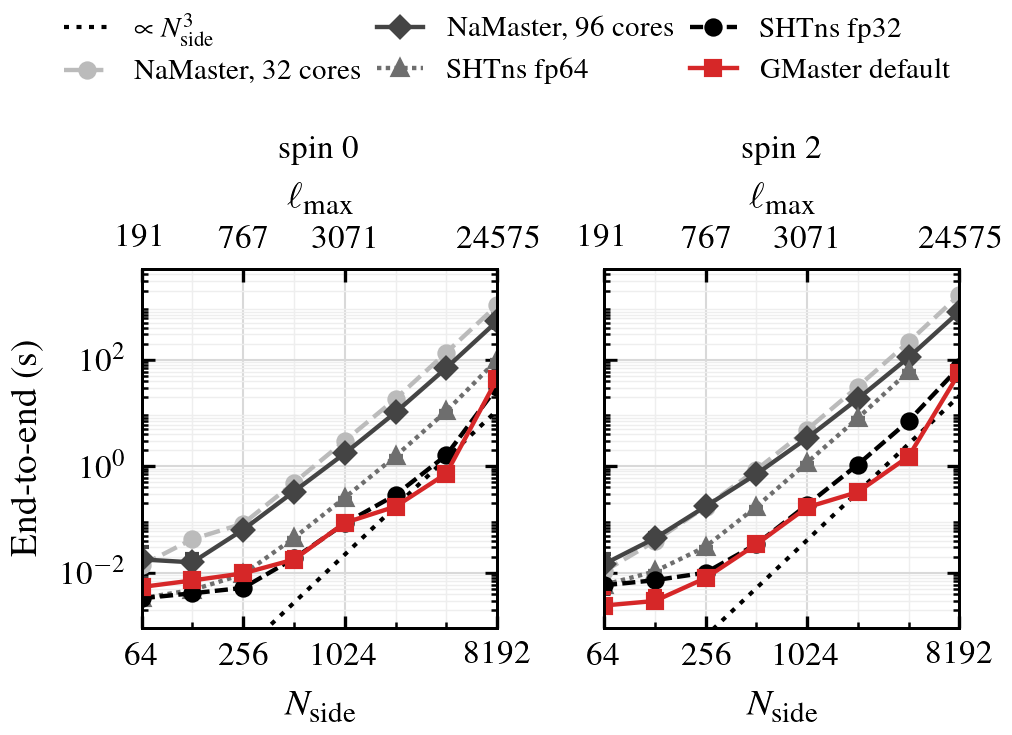
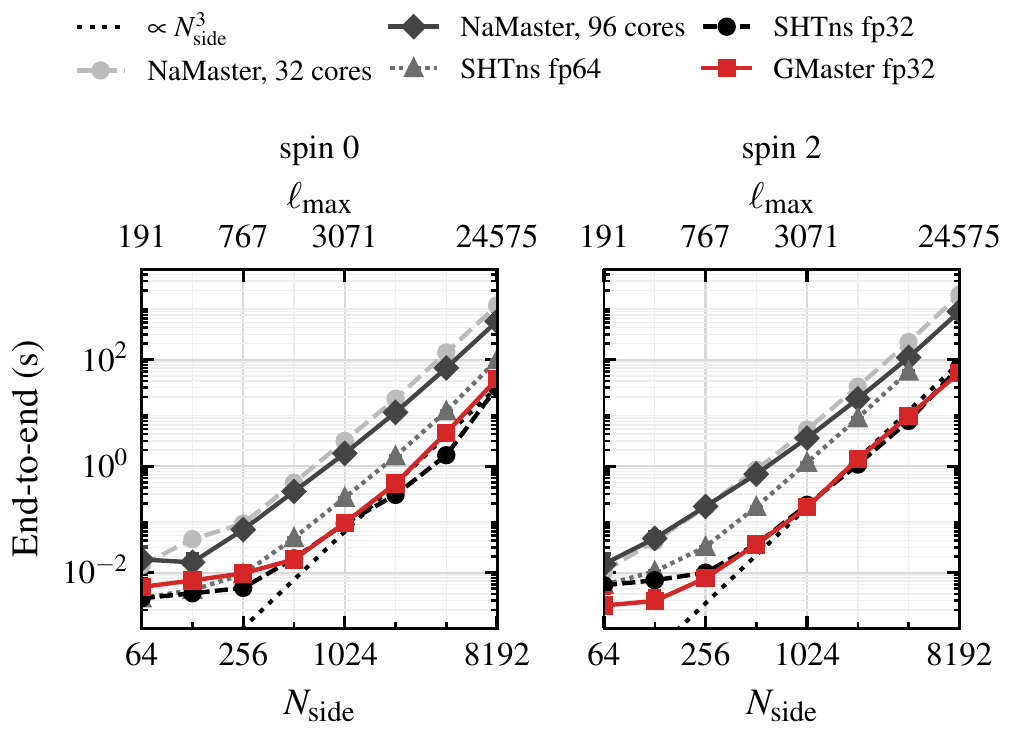
Attribute the ACT timings to the float32 Wigner-d march.
The letter no longer describes a divide-and-conquer latitudinal engine or its timings. The performance figure is the float32 march curve.

diff --git a/paper/gmaster_paper/main.tex b/paper/gmaster_paper/main.tex
@@ -27,7 +27,7 @@ $^{3}$Cavendish Astrophysics, University of Cambridge, Madingley Road, Cambridge
 \maketitle
 
 \begin{abstract}
-High-resolution analysis of maps on the sphere is limited by the computational cost of spherical harmonic transforms (SHTs). We introduce a difference-form Wigner-$d$/Jacobi recurrence that suppresses the amplification of floating-point error and makes accurate single-precision transforms practical on a GPU. The functions are generated on the fly, so the full latitudinal basis is never stored. The method is implemented in \texttt{GMaster}\,\href{https://github.com/licongxu/GMaster}{\faGithub}, with CUDA kernels integrated with JAX. On one GPU, float32 \texttt{map2alm} at $N_{\mathrm{side}}=1024$--$2048$ is $7.3$--$8.5\times$ faster for spin~0 and $6.7$--$9.0\times$ faster for spin~2 than \texttt{ducc0} on 96 CPU cores, and $2.2$--$4.7\times$ faster than float64 \texttt{SHTns} on the HEALPix grid for spin-0 \texttt{map2alm} over $N_{\mathrm{side}}=512$--$8192$. The shipped default uses that march outside a band-limit window and a divide-and-conquer latitudinal engine inside it. On the ACT DR6 maps the default route is $58.6\times$ and $56.3\times$ faster than 96-core \texttt{NaMaster} at $N_{\mathrm{side}}=2048$ (spin~0 and spin~2) and $96.5\times$ and $72.5\times$ faster at $N_{\mathrm{side}}=4096$, with TT and EE bandpowers agreeing to $1.5\times10^{-5}$ at $N_{\mathrm{side}}=2048$ and $1.7\times10^{-4}$ at $N_{\mathrm{side}}=4096$. The float32 march evaluates the curved-sky CMB lensing quadratic estimator. At $\ell_{\max}=2000$ and $4000$ the seven estimators take $0.103\,\mathrm{s}$ and $0.594\,\mathrm{s}$, $61\times$ and $41\times$ faster than \texttt{falafel} on its CAR grid and $96.5\times$ and $64\times$ faster than \texttt{falafel} on HEALPix, agreeing with the HEALPix reconstruction to $2.8\times10^{-5}$ and $7.0\times10^{-5}$.
+High-resolution analysis of maps on the sphere is limited by the computational cost of spherical harmonic transforms (SHTs). We introduce a difference-form Wigner-$d$/Jacobi recurrence that suppresses the amplification of floating-point error and makes accurate single-precision transforms practical on a GPU. The functions are generated on the fly, so the full latitudinal basis is never stored. The method is implemented in \texttt{GMaster}\,\href{https://github.com/licongxu/GMaster}{\faGithub}, with CUDA kernels integrated with JAX. On one GPU, float32 \texttt{map2alm} at $N_{\mathrm{side}}=1024$--$2048$ is $7.3$--$8.5\times$ faster for spin~0 and $6.7$--$9.0\times$ faster for spin~2 than \texttt{ducc0} on 96 CPU cores, and $2.2$--$4.7\times$ faster than float64 \texttt{SHTns} on the HEALPix grid for spin-0 \texttt{map2alm} over $N_{\mathrm{side}}=512$--$8192$. On the ACT DR6 maps the float32 difference-form march carries the masked maps to decoupled bandpowers $12$--$22\times$ faster than 96-core \texttt{NaMaster} for $N_{\mathrm{side}}=512$--$8192$, with the bandpowers agreeing to $5.7\times10^{-5}$ in TT and $3.6\times10^{-4}$ in EE at $N_{\mathrm{side}}=4096$. The same march evaluates the curved-sky CMB lensing quadratic estimator. At $\ell_{\max}=2000$ and $4000$ the seven estimators take $0.103\,\mathrm{s}$ and $0.594\,\mathrm{s}$, $61\times$ and $41\times$ faster than \texttt{falafel} on its CAR grid and $96.5\times$ and $64\times$ faster than \texttt{falafel} on HEALPix, agreeing with the HEALPix reconstruction to $2.8\times10^{-5}$ and $7.0\times10^{-5}$.
 \end{abstract}
 
 \begin{keywords}
@@ -309,15 +309,15 @@ We now demonstrate the use of SHTs with GMaster in cosmological analysis workflo
 \begin{figure}
 \centering
 \includegraphics[width=\columnwidth]{figures/fig_act_perf.pdf}
-\caption{Wall time of the complete power-spectrum stage, from the masked maps of Figure~\ref{fig:act_tqu} to binned decoupled bandpowers, on the masked ACT DR6 maps. \texttt{GMaster} (red) is the shipped default latitudinal engine: divide-and-conquer at $N_{\mathrm{side}}=2048$ and $4096$, and the float32 difference-form Wigner-$d$ march at the other resolutions. \texttt{NaMaster} is black and grey. \texttt{SHTns} has no estimator of its own: its curves add the \texttt{SHTns} analysis of the masked maps ($n_{\mathrm{iter}}=3$, HEALPix, float64 or float32 throughout) to the \texttt{GMaster} mask transform, mode-coupling matrix and decoupling. \texttt{SHTns} fp64 at spin~2 and $N_{\mathrm{side}}=8192$ does not fit in GPU memory. The upper axis is $\ell_{\max}=3N_{\mathrm{side}}-1$. The dotted guide is $\propto N_{\mathrm{side}}^{3}$, anchored on GMaster at $N_{\mathrm{side}}=2048$.}
+\caption{Wall time of the complete power-spectrum stage, from the masked maps of Figure~\ref{fig:act_tqu} to binned decoupled bandpowers, on the masked ACT DR6 maps. \texttt{GMaster} uses its float32 difference-form Wigner-$d$ march on one GPU (red); \texttt{NaMaster} is black and grey. \texttt{SHTns} has no estimator of its own: its curves add the \texttt{SHTns} analysis of the masked maps ($n_{\mathrm{iter}}=3$, HEALPix, float64 or float32 throughout) to the \texttt{GMaster} mask transform, mode-coupling matrix and decoupling. \texttt{SHTns} fp64 at spin~2 and $N_{\mathrm{side}}=8192$ does not fit in GPU memory. The upper axis is $\ell_{\max}=3N_{\mathrm{side}}-1$. The dotted guide is $\propto N_{\mathrm{side}}^{3}$, anchored on GMaster at $N_{\mathrm{side}}=2048$.}
 \label{fig:perf}
 \end{figure}
 Figure~\ref{fig:act_spectra} shows this estimator on the ACT+Planck DR6 NILC blackbody temperature and $E$-mode maps at $N_{\mathrm{side}}=2048$, masked by the NILC footprint ($f_{\mathrm{sky}}=0.338$). The TT and EE spectra are the auto-spectra of those two maps, and TE is their cross-spectrum. \texttt{GMaster} and \texttt{NaMaster} both form the masked coefficients with \texttt{NmtField} at $n_{\mathrm{iter}}=3$, build the mode-coupling matrix of the footprint, and decouple linear bins of width $\Delta\ell=30$. Over $500\le\ell\le4000$ the \texttt{GMaster} bandpowers differ from \texttt{NaMaster} by at most $1.7\times10^{-3}$ in TT, $1.2\times10^{-5}$ in EE and $1.5\times10^{-2}$ in TE. \texttt{SHTns} has no pseudo-$C_\ell$ estimator of its own. We form the same masked HEALPix fields with $n_{\mathrm{iter}}=3$ using its float32 transforms, recurrence included, bin the coupled spectra at $\Delta\ell=30$ and decouple them with the \texttt{GMaster} mode-coupling matrix of the footprint. Over $500\le\ell\le4000$ the result differs from \texttt{NaMaster} by at most $1.7\times10^{-3}$ in TT, $6.9\times10^{-6}$ in EE and $1.4\times10^{-2}$ in TE, the same as \texttt{GMaster}: the NILC footprint excludes the poles, where the plain float32 recurrence loses its accuracy.
 
-Figure~\ref{fig:perf} measures the wall time of the complete pseudo-$C_\ell$ calculation on the masked ACT DR6 night PA4 $f150$ Stokes maps of Figure~\ref{fig:act_tqu}, from those maps to the final binned, decoupled bandpowers. This includes construction of the masked harmonic fields, calculation of the mode-coupling matrix from the mask, evaluation of the coupled spectra, and decoupling into linear bins of width $\Delta\ell=30$. The spin-0 calculation uses the masked temperature map and produces the TT spectrum. The spin-2 calculation uses the masked $(Q,U)$ maps and produces EE, EB, BE, and BB, including the $E$--$B$ mixing induced by the mask. The red curve is the shipped default. For $\ell_{\max}=3N_{\mathrm{side}}-1$ that engine is divide-and-conquer at $N_{\mathrm{side}}=2048$ and $4096$ ($6144\le L\le12288$) and the float32 difference-form march at every other resolution in the figure, where the march is the faster engine or the band limit lies above the divide-and-conquer window. The $N_{\mathrm{side}}=2048$ and $4096$ points are warm medians of two calls of that divide-and-conquer route on one RTX~PRO~6000. \texttt{NaMaster} and the \texttt{GMaster} points outside the window are the 27~September board: 96-core \texttt{ducc0}, and the march. At $N_{\mathrm{side}}=2048$ the default route takes $0.175\,\mathrm{s}$ and $0.328\,\mathrm{s}$ for spin~0 and spin~2, $58.6\times$ and $56.3\times$ faster than 96-core \texttt{NaMaster}. At $N_{\mathrm{side}}=4096$ the times are $0.728\,\mathrm{s}$ and $1.52\,\mathrm{s}$, $96.5\times$ and $72.5\times$. The difference-form march on the same maps is slower at these two resolutions, by $2.7\times$ and $4.2\times$ at $N_{\mathrm{side}}=2048$ and by $5.8\times$ for both spins at $N_{\mathrm{side}}=4096$. From $N_{\mathrm{side}}=512$ to $1024$, and at $N_{\mathrm{side}}=8192$, the march is $12.1$--$20.8\times$ faster than 96-core \texttt{NaMaster}. Decoupled TT and EE from the divide-and-conquer runs differ from the 96-core \texttt{NaMaster} spectra by at most $1.5\times10^{-5}$ at $N_{\mathrm{side}}=2048$ and $1.7\times10^{-4}$ at $N_{\mathrm{side}}=4096$. Replacing only the masked-map analysis by \texttt{SHTns}, and keeping the \texttt{GMaster} mask transform, mode-coupling matrix and decoupling, is slower than this default route inside the divide-and-conquer window: $8.8\times$ and $14.8\times$ for spin~0 in float64 at $N_{\mathrm{side}}=2048$ and $4096$ ($24.5\times$ and $39.7\times$ for spin~2), and $1.7\times$ and $2.2\times$ in float32 ($3.3\times$ and $4.7\times$ for spin~2). At $N_{\mathrm{side}}=8192$, where the march is the default, the float32 hybrid is $1.4\times$ faster than \texttt{GMaster} for spin~0.
+Figure~\ref{fig:perf} measures the wall time of the complete pseudo-$C_\ell$ calculation on the masked ACT DR6 night PA4 $f150$ Stokes maps of Figure~\ref{fig:act_tqu}, from those maps to the final binned, decoupled bandpowers. This includes construction of the masked harmonic fields, calculation of the mode-coupling matrix from the mask, evaluation of the coupled spectra, and decoupling into linear bins of width $\Delta\ell=30$. The spin-0 calculation uses the masked temperature map and produces the TT spectrum. The spin-2 calculation uses the masked $(Q,U)$ maps and produces EE, EB, BE, and BB, including the $E$--$B$ mixing induced by the mask. Both implementations show approximately $\mathcal{O}(N_{\mathrm{side}}^3)$ scaling. From $N_{\mathrm{side}}=512$ to $8192$, \texttt{GMaster} is $12$--$22\times$ faster than 96-core \texttt{NaMaster}. The speed-ups are $16.5\times$ and $12.5\times$ for spin~0 and spin~2, respectively, at $N_{\mathrm{side}}=4096$, and $12.1\times$ and $14.1\times$ at $N_{\mathrm{side}}=8192$. The GMaster curves are the float32 difference-form Wigner-$d$ march. Using \texttt{SHTns} for the masked-map analysis instead, with the rest of the stage from \texttt{GMaster}, is $2.3$--$3.3\times$ slower for spin~0 and $5$--$7\times$ slower for spin~2 in float64; in float32 it is up to $2.6\times$ faster for spin~0 (at $N_{\mathrm{side}}=4096$) and within $30\%$ of \texttt{GMaster} for spin~2, with the accuracy caveat of Section~\ref{sec:performance}. The resulting \texttt{GMaster} bandpowers, computed with mode-coupling matrices built on the GPU by Gauss--Legendre quadrature (nodes and weights from \texttt{ducc0}), differ from \texttt{NaMaster} by at most $5.7\times10^{-5}$ (TT) and $3.6\times10^{-4}$ (EE) at $N_{\mathrm{side}}=4096$, and by at most $3.8\times10^{-5}$ and $2.8\times10^{-4}$ at $N_{\mathrm{side}}=8192$, over all bandpowers. At every $N_{\mathrm{side}}$ the difference is at least 17 times below cosmic variance at all $\ell$.
 
 \subsection{Quadratic Estimator for CMB lensing reconstruction}
-The curved-sky quadratic estimator reconstructs the CMB lensing potential from a pair of filtered maps \citep{hu2002,okamoto2003}. \texttt{falafel} is the implementation used by the ACT DR6 and Simons Observatory lensing pipelines \citep{falafel}. \texttt{GMaster} evaluates the same unnormalised estimators --- TT, TE, EE, EB, TB, the minimum-variance combination and its polarisation-only form --- on the GPU. Temperature uses spin-0 and spin-1 transforms, and polarisation adds spin-2 and spin-3. The divide-and-conquer engine is validated for spin~2 only, so these reconstructions use the float32 difference-form march, which is the fastest implemented route for the odd spins.
+The curved-sky quadratic estimator reconstructs the CMB lensing potential from a pair of filtered maps \citep{hu2002,okamoto2003}. \texttt{falafel} is the implementation used by the ACT DR6 and Simons Observatory lensing pipelines \citep{falafel}. \texttt{GMaster} evaluates the same unnormalised estimators --- TT, TE, EE, EB, TB, the minimum-variance combination and its polarisation-only form --- on the GPU. Temperature uses spin-0 and spin-1 transforms, and polarisation adds spin-2 and spin-3. These reconstructions use the float32 difference-form march.
 
 Figure~\ref{fig:qe_cl} shows the auto-spectrum of the normalised minimum-variance gradient, $\phi_{LM}=A_L g_{LM}$, for one realization of the same $C^{-1}$-filtered alms. Both curves use \texttt{GMaster}'s normalisation $A_L$, so the comparison is the quadratic estimator. The inputs are a Gaussian draw of the lensed spectra plus noise and contain no input lensing potential, so $C_L^{\phi\phi}$ is the reconstruction noise of that realization. In linear bins of width $\Delta L=50$ from $L=20$, the \texttt{GMaster} and \texttt{falafel} HEALPix spectra differ by at most $1.3\times10^{-6}$ at $\ell_{\max}=2000$ and $7.3\times10^{-6}$ at $\ell_{\max}=4000$.
 
@@ -341,7 +341,7 @@ Figure~\ref{fig:qe} compares those wall times on one RTX~PRO~6000 with \texttt{f
 \label{sec:conclusion}
 We have introduced a difference-form Jacobi recurrence for accurate single-precision evaluation of Wigner-$d$ functions in high-resolution spherical harmonic transforms. By suppressing the $1/|\sin\phi|$ amplification of floating-point errors and accurately evaluating the small recurrence coefficient, the method retains the low-memory, on-the-fly structure of recurrence-based SHTs while remaining efficient in float32 on GPUs.
 
-The float32 march is the transform timed in Section~\ref{sec:performance}. On one RTX~PRO~6000, \texttt{map2alm} at $N_{\mathrm{side}}=1024$--$2048$ is $7.3$--$8.5\times$ faster for spin~0 and $6.7$--$9.0\times$ faster for spin~2 than \texttt{ducc0} on 96 CPU cores, and $2.2$--$4.7\times$ faster than float64 HEALPix \texttt{SHTns} for spin-0 \texttt{map2alm} over $N_{\mathrm{side}}=512$--$8192$. The shipped default switches to a divide-and-conquer latitudinal engine for $6144\le L\le12288$. On the ACT DR6 maps that route takes $0.175\,\mathrm{s}$ and $0.328\,\mathrm{s}$ at $N_{\mathrm{side}}=2048$ and $0.728\,\mathrm{s}$ and $1.52\,\mathrm{s}$ at $N_{\mathrm{side}}=4096$ (spin~0 and spin~2), $56.3$--$96.5\times$ faster than 96-core \texttt{NaMaster}, with TT and EE agreeing to at most $1.5\times10^{-5}$ at $N_{\mathrm{side}}=2048$ and $1.7\times10^{-4}$ at $N_{\mathrm{side}}=4096$. The same march evaluates the lensing quadratic estimator. At $\ell_{\max}=2000$ and $4000$ the seven estimators take $0.103\,\mathrm{s}$ and $0.594\,\mathrm{s}$, $61\times$ and $41\times$ faster than \texttt{falafel} on CAR and $96.5\times$ and $64\times$ faster than \texttt{falafel} on HEALPix, agreeing with the HEALPix run to $2.8\times10^{-5}$ and $7.0\times10^{-5}$. The implementation is publicly available as \texttt{GMaster}.
+The float32 difference-form march is the transform timed in Section~\ref{sec:performance}, and it is the latitudinal engine used for the measurements in this letter. On one RTX~PRO~6000, \texttt{map2alm} at $N_{\mathrm{side}}=1024$--$2048$ is $7.3$--$8.5\times$ faster for spin~0 and $6.7$--$9.0\times$ faster for spin~2 than \texttt{ducc0} on 96 CPU cores, and $2.2$--$4.7\times$ faster than float64 HEALPix \texttt{SHTns} for spin-0 \texttt{map2alm} over $N_{\mathrm{side}}=512$--$8192$. On the ACT DR6 maps the path from masked maps to decoupled bandpowers is $12$--$22\times$ faster than 96-core \texttt{NaMaster} for $N_{\mathrm{side}}=512$--$8192$, with TT and EE agreeing to $5.7\times10^{-5}$ and $3.6\times10^{-4}$ at $N_{\mathrm{side}}=4096$. The same march evaluates the lensing quadratic estimator. At $\ell_{\max}=2000$ and $4000$ the seven estimators take $0.103\,\mathrm{s}$ and $0.594\,\mathrm{s}$, $61\times$ and $41\times$ faster than \texttt{falafel} on CAR and $96.5\times$ and $64\times$ faster than \texttt{falafel} on HEALPix, agreeing with the HEALPix run to $2.8\times10^{-5}$ and $7.0\times10^{-5}$. The implementation is publicly available as \texttt{GMaster}.
 
 \section*{Acknowledgements}
 Generative AI systems were used extensively in the development of this work, including the derivation of the numerical method and the generation of its software implementation. The author defined the scientific problem and computational objectives, carried out the numerical experiments and benchmarking reported in this paper, and prepared the manuscript. The resulting method and implementation were evaluated through the numerical accuracy and performance tests presented here.
